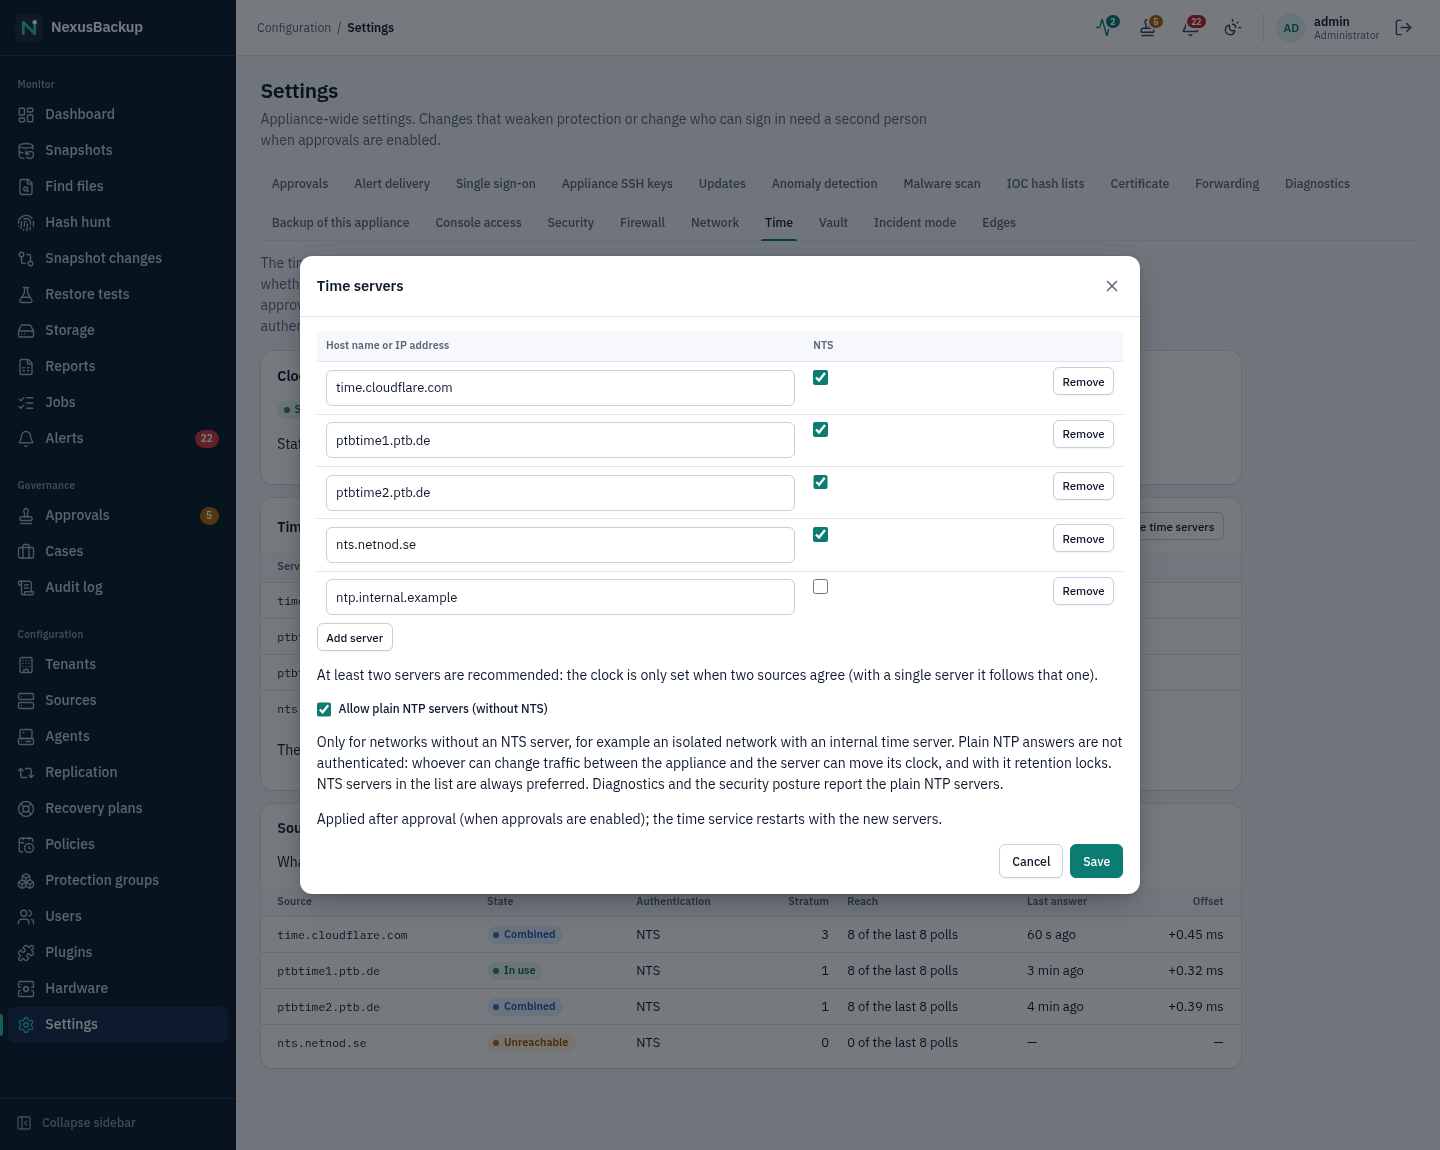
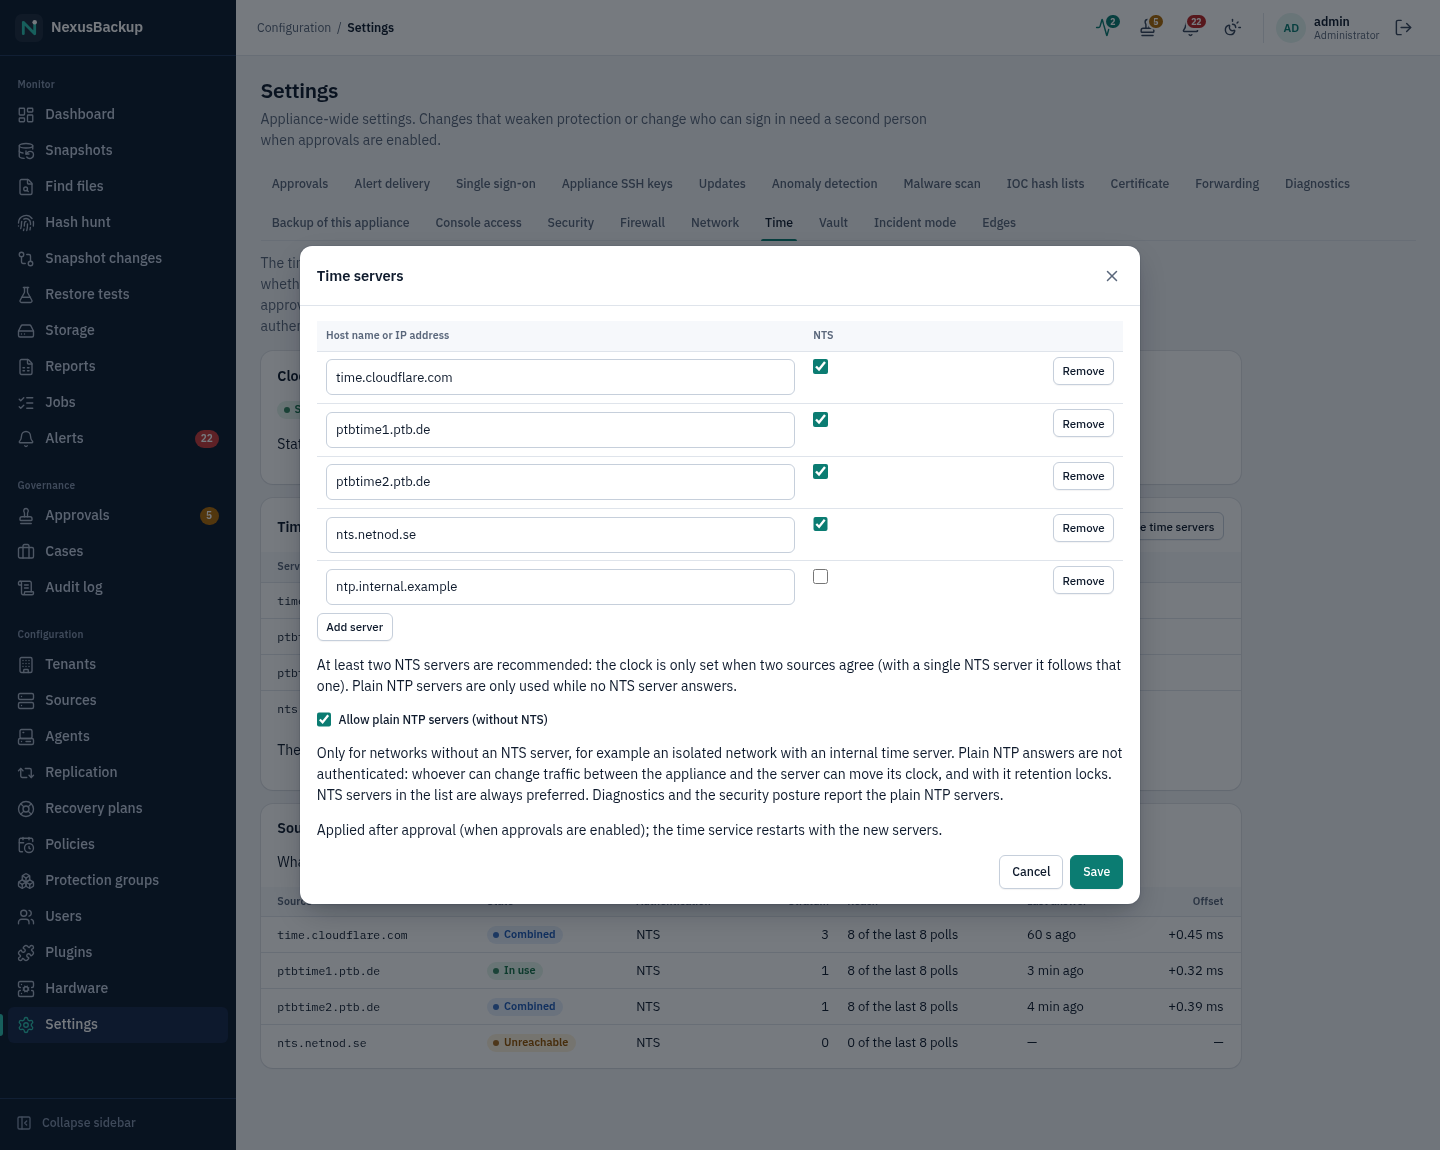
Time servers: fixes from the lab run on VM 201
- The status refresh after the chronyd restart ran from the restart shell
  (initrc_t), could not enter nexus_time_t and wrote an empty source list:
  now its own ExecStartPost, `nexus-time settle`.
- chronyc answered "Could not open connection to daemon": its client
  socket goes into /run/chrony (0750 chrony); the bounding set keeps
  CAP_DAC_OVERRIDE for chronyc in chronyc_t, as for nexus-diag (the policy
  grants nexus_time_t none).
- systemd could not watch the sources file for nexus-nft-sync.path, so the
  firewall kept the old servers until the next timer sync: init_t may read
  and watch it.
- One NTS and one plain NTP server never synchronised: authselectmode
  prefer leaves the NTP server unused while the NTS one works, and
  minsources 2 then never holds. minsources now counts the kind in use.
- Lab script: `set` command, test servers whose NTP associations the
  firewall lets through.

Lab (0.0.14-dev): switch to two PTB servers after approval, chronyd uses
them after about 20 s, the firewall set follows, plain NTP opt-in
synchronises and time.nts warns, 0 AVCs.

Changed region(s): [[0.1875, 0.213, 0.8125, 0.7304], [0.1875, 0.7304, 0.8125, 0.7913], [0.7188, 0.3043, 0.7812, 0.5174]]

diff --git a/web/src/lib/i18n.ts b/web/src/lib/i18n.ts
@@ -3661,7 +3661,7 @@ export const en = {
       'Only for networks without an NTS server, for example an isolated network with an internal time server. Plain NTP answers are not authenticated: whoever can change traffic between the appliance and the server can move its clock, and with it retention locks. NTS servers in the list are always preferred. Diagnostics and the security posture report the plain NTP servers.',
     ntpWarning: (hosts: string) => `Plain NTP (not authenticated): ${hosts}`,
     minHint:
-      'At least two servers are recommended: the clock is only set when two sources agree (with a single server it follows that one).',
+      'At least two NTS servers are recommended: the clock is only set when two sources agree (with a single NTS server it follows that one). Plain NTP servers are only used while no NTS server answers.',
     firewallHint:
       'The outbound firewall opens TCP 4460 (NTS key exchange) and UDP 123 to these servers by itself; allow the same in your own firewalls.',
     approvalHint:

diff --git a/os/greenboot/tests/test_nexus_time.py b/os/greenboot/tests/test_nexus_time.py
@@ -64,7 +64,7 @@ class Base(unittest.TestCase):
                      "chronyc -c -n tracking": [0, TRACKING]})
         self.env = {"NEXUS_TIME_DIR": str(self.d / "ctl"), "NEXUS_TIME_CONF": str(self.d / "chrony.conf"),
                     "NEXUS_TIME_RUN": str(self.d / "run"), "NEXUS_TIME_CHRONYC": str(tool),
-                    "FAKE_DIR": str(self.d / "fake")}
+                    "FAKE_DIR": str(self.d / "fake"), "NEXUS_TIME_SETTLE": "0"}
         self.old = {k: os.environ.get(k) for k in self.env}
         os.environ.update(self.env)
         self.m = load()
@@ -124,6 +124,11 @@ class Validation(Base):
         mixed = self.m.render([("a.example", True), ("ntp.internal", False)])
         self.assertIn("server ntp.internal iburst\n", mixed)
         self.assertIn("authselectmode prefer\n", mixed)
+        # prefer ignores the NTP server while the NTS one works: one source must be enough
+        self.assertIn("minsources 1\n", mixed)
+        two = self.m.render([("a.example", True), ("b.example", True), ("ntp.internal", False)])
+        self.assertIn("minsources 2\n", two)
+        self.assertIn("minsources 2\n", self.m.render([("ntp1.internal", False), ("ntp2.internal", False)]))
         one = self.m.render([("ntp.internal", False)])
         self.assertIn("minsources 1\n", one)
         self.assertEqual(self.m.configured(mixed), [("a.example", True), ("ntp.internal", False)])
@@ -156,6 +161,15 @@ class Requests(Base):
 
         # a timer tick without a request keeps the last outcome
         self.assertEqual(self.tick()["last"]["result"], "refused")
+
+    def test_settle_refreshes_only_after_a_restart(self):
+        self.assertEqual(self.m.main(["nexus-time", "settle"]), 0)
+        self.assertFalse((self.d / "ctl/status.json").exists(), "no restart: nothing to do")
+        (self.d / "run").mkdir()
+        (self.d / "run/restarted").touch()
+        self.assertEqual(self.m.main(["nexus-time", "settle"]), 0)
+        self.assertFalse((self.d / "run/restarted").exists())
+        self.assertEqual(json.loads((self.d / "ctl/status.json").read_text())["sources"][1]["state"], "selected")
 
     def test_unreadable_request(self):
         (self.d / "ctl/request.json").write_text("{nope")

diff --git a/docs/control-plane.md b/docs/control-plane.md
@@ -617,7 +617,8 @@ plain NTP.
 - **Files**: `/etc/chrony.conf` (image) has `include /etc/nexus/time/*.conf`; `/etc/nexus/time/chrony.conf`
   (`nexus_time_conf_t`, 0644 root; shipped with the four public NTS servers) holds the `server <host> iburst [nts]`
   lines, `authselectmode require` (NTS only) or `prefer` (plain NTP servers present: authenticated sources win
-  whenever one is usable) and `minsources 2` (1 with a single server). Only `nexus_time_t` may write it (neverallow);
+  whenever one is usable: plain NTP servers are only used while no NTS server is) and `minsources 2`, or 1 when
+  only one server of the kind in use is configured (the NTS servers if there are any). Only `nexus_time_t` may write it (neverallow);
   `chronyd_t` and `nexus_nftsync_t` read it.
 - **Validation** (web-api and helper, same rules): 1–8 servers, each a DNS name (labels `[A-Za-z0-9-]`, no leading or
   trailing hyphen, ≤ 63 characters, the last label not all digits) or an IPv4/IPv6 address; no duplicates (case
@@ -629,14 +630,14 @@ plain NTP.
   time, result: applied|unchanged|refused, error} | null, queued, request_pending, max_servers}`. `PUT
   /settings/time {servers, allow_ntp}` (admin): 400 on a validation error, 200 `{unchanged: true}` for the
   configured list, otherwise gated by `time.servers` (params `{servers, allow_ntp, plain_ntp: [hosts]}`).
-- **Helper** `nexus-time` (root oneshot without capabilities, Python stdlib; SELinux `nexus_time_t`: its control dir,
+- **Helper** `nexus-time` (root oneshot, Python stdlib; the bounding set only `CAP_DAC_OVERRIDE` for chronyc in `chronyc_t`; SELinux `nexus_time_t`: its control dir,
   the sources file, `/run/nexus-time`, chronyc in `chronyc_t`; no inet sockets). `nexus-time.path` on
   `/var/lib/nexus/time/request.json` (2770 root:nexus-webapi; `{id, by, quorum_id, servers, allow_ntp}`, ≤ 16 KiB,
   consumed), `nexus-time.timer` every 2 minutes. `tick` applies a request (validated again; `refused` changes
   nothing), writes the sources file (tmp + rename) and `/run/nexus-time/restart` when it changed, then
   `status.json` (0644) from `chronyc -c -N sources`, `-c -N authdata` (mode column) and `-c -n tracking`. The unit's
-  `ExecStartPost` (a shell, outside `nexus_time_t`) restarts chronyd when the mark exists and runs `tick` again
-  15 s later for fresh sources. `nexus-nft-sync.path` watches the sources file: nft-sync resolves every `server`/`pool`
+  first `ExecStartPost` (a shell in `initrc_t`, outside `nexus_time_t`) renames the mark to `restarted` and restarts
+  chronyd; the second runs `nexus-time settle`, which writes the status again 15 s later for the new sources. `nexus-nft-sync.path` watches the sources file: nft-sync resolves every `server`/`pool`
   host of chrony.conf and its includes into `nts_servers_v4/v6` (TCP 4460 and UDP 123 out).
 - **Diagnostics**: `time.sync` (tracking) and `time.nts` (authdata: warns about unauthenticated sources).
 

diff --git a/manual/02-installation.md b/manual/02-installation.md
@@ -386,7 +386,8 @@ refreshed every 2 minutes.
 - **Plain NTP** (without NTS) is off by default. Tick **Allow plain NTP servers** only for networks without an NTS
   server, for example an isolated network with an internal time server, and untick **NTS** for those servers. Their
   answers are not authenticated: whoever can change the traffic between the appliance and the server can move the
-  clock, and with it retention locks. NTS servers in the list are always preferred. **Settings → Diagnostics**
+  clock, and with it retention locks. NTS servers in the list are always preferred: the plain NTP servers are only
+  used while no NTS server answers. **Settings → Diagnostics**
   (`time.nts`) warns about the unauthenticated sources, and the approver sees them in the request.
 
 ![Change time servers](images/time-edit.png)
